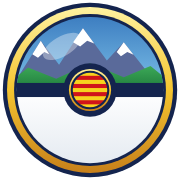
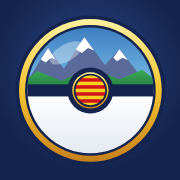
Permitir instalar el juego como aplicación con su pantalla de carga
- manifest.webmanifest con nombre, colores e iconos de 192 y 512 px (también
  versión maskable para Android).
- Pantallas de carga para iPhone (apple-touch-startup-image) en 11 tamaños,
  con el emblema, el nombre y la cinta de Aragón sobre el atardecer.
- apple-touch-icon cuadrado con fondo azul para que iOS no lo recorte.
- Pantalla completa con barra de estado translúcida y márgenes seguros
  para la muesca.
- Service worker que da prioridad a la red y usa la caché sin conexión.

Claude-Session: https://claude.ai/code/session_01GrhbgGUWWaNWde6f3VWZv7

diff --git a/index.html b/index.html
@@ -2,13 +2,30 @@
 <html lang="es">
 <head>
   <meta charset="utf-8">
-  <meta name="viewport" content="width=device-width, initial-scale=1, maximum-scale=1, user-scalable=no">
+  <meta name="viewport" content="width=device-width, initial-scale=1, maximum-scale=1, user-scalable=no, viewport-fit=cover">
   <title>Oscamon Huesca</title>
   <meta name="description" content="Aventura de criaturas al estilo Pokémon ambientada en Huesca y el Alto Aragón.">
   <meta name="theme-color" content="#14244e">
   <link rel="icon" type="image/svg+xml" href="img/logo.svg">
   <link rel="icon" type="image/png" sizes="32x32" href="img/favicon-32.png">
   <link rel="apple-touch-icon" href="img/apple-touch-icon.png">
+  <link rel="manifest" href="manifest.webmanifest">
+  <!-- Al instalarlo en el iPhone: pantalla completa, nombre y pantallas de carga -->
+  <meta name="apple-mobile-web-app-capable" content="yes">
+  <meta name="mobile-web-app-capable" content="yes">
+  <meta name="apple-mobile-web-app-title" content="Oscamon">
+  <meta name="apple-mobile-web-app-status-bar-style" content="black-translucent">
+  <link rel="apple-touch-startup-image" media="(device-width: 375px) and (device-height: 667px) and (-webkit-device-pixel-ratio: 2) and (orientation: portrait)" href="img/splash/splash-750x1334.png">
+  <link rel="apple-touch-startup-image" media="(device-width: 414px) and (device-height: 896px) and (-webkit-device-pixel-ratio: 2) and (orientation: portrait)" href="img/splash/splash-828x1792.png">
+  <link rel="apple-touch-startup-image" media="(device-width: 375px) and (device-height: 812px) and (-webkit-device-pixel-ratio: 3) and (orientation: portrait)" href="img/splash/splash-1125x2436.png">
+  <link rel="apple-touch-startup-image" media="(device-width: 414px) and (device-height: 896px) and (-webkit-device-pixel-ratio: 3) and (orientation: portrait)" href="img/splash/splash-1242x2688.png">
+  <link rel="apple-touch-startup-image" media="(device-width: 390px) and (device-height: 844px) and (-webkit-device-pixel-ratio: 3) and (orientation: portrait)" href="img/splash/splash-1170x2532.png">
+  <link rel="apple-touch-startup-image" media="(device-width: 428px) and (device-height: 926px) and (-webkit-device-pixel-ratio: 3) and (orientation: portrait)" href="img/splash/splash-1284x2778.png">
+  <link rel="apple-touch-startup-image" media="(device-width: 393px) and (device-height: 852px) and (-webkit-device-pixel-ratio: 3) and (orientation: portrait)" href="img/splash/splash-1179x2556.png">
+  <link rel="apple-touch-startup-image" media="(device-width: 430px) and (device-height: 932px) and (-webkit-device-pixel-ratio: 3) and (orientation: portrait)" href="img/splash/splash-1290x2796.png">
+  <link rel="apple-touch-startup-image" media="(device-width: 402px) and (device-height: 874px) and (-webkit-device-pixel-ratio: 3) and (orientation: portrait)" href="img/splash/splash-1206x2622.png">
+  <link rel="apple-touch-startup-image" media="(device-width: 440px) and (device-height: 956px) and (-webkit-device-pixel-ratio: 3) and (orientation: portrait)" href="img/splash/splash-1320x2868.png">
+  <link rel="apple-touch-startup-image" media="(device-width: 360px) and (device-height: 780px) and (-webkit-device-pixel-ratio: 3) and (orientation: portrait)" href="img/splash/splash-1080x2340.png">
   <link rel="preconnect" href="https://fonts.googleapis.com">
   <link rel="preconnect" href="https://fonts.gstatic.com" crossorigin>
   <link href="https://fonts.googleapis.com/css2?family=Press+Start+2P&display=swap" rel="stylesheet">

diff --git a/sw.js b/sw.js
@@ -1,0 +1,20 @@
+// Service worker de Oscamon: primero la red (para recibir siempre la última versión)
+// y, si no hay conexión, lo último que se guardó. Así el juego instalado abre sin cobertura.
+const CACHE = 'oscamon-v1';
+
+self.addEventListener('install', e => self.skipWaiting());
+self.addEventListener('activate', e => e.waitUntil(self.clients.claim()));
+
+self.addEventListener('fetch', e => {
+  const req = e.request;
+  if (req.method !== 'GET') return;
+  e.respondWith(
+    fetch(req).then(res => {
+      if (res.ok && (new URL(req.url).origin === location.origin || req.url.includes('fonts.g'))) {
+        const copy = res.clone();
+        caches.open(CACHE).then(c => c.put(req, copy));
+      }
+      return res;
+    }).catch(() => caches.match(req, { ignoreSearch: true }))
+  );
+});

diff --git a/css/style.css b/css/style.css
@@ -28,7 +28,8 @@ main {
   align-items: center;
   justify-content: center;
   min-height: 100%;
-  padding: 4px 0;
+  /* Respeta la muesca y la barra inferior cuando se abre como app instalada */
+  padding: calc(4px + env(safe-area-inset-top, 0px)) env(safe-area-inset-right, 0px) calc(4px + env(safe-area-inset-bottom, 0px)) env(safe-area-inset-left, 0px);
   gap: 8px;
 }
 

diff --git a/js/main.js b/js/main.js
@@ -1007,3 +1007,8 @@ function resize() {
 }
 
 boot();
+
+// Permite instalar el juego como aplicación y abrirlo sin conexión
+if ('serviceWorker' in navigator && location.protocol === 'https:') {
+  try { navigator.serviceWorker.register('sw.js').catch(() => {}); } catch (e) { /* no disponible */ }
+}

diff --git a/README.md b/README.md
@@ -13,7 +13,12 @@ Abre `index.html` en el navegador. También puedes servir la carpeta con cualqui
 npx http-server .   # o: python3 -m http.server
 ```
 
-Funciona en el móvil con mandos táctiles.
+Funciona en el móvil con mandos táctiles y **se puede instalar como una aplicación**:
+
+- **iPhone (Safari):** botón Compartir → *Añadir a pantalla de inicio*.
+- **Android (Chrome):** menú ⋮ → *Instalar aplicación* (o *Añadir a pantalla de inicio*).
+
+Al abrirlo desde el icono se ve a pantalla completa, con una pantalla de carga con el emblema del juego, y funciona sin conexión.
 
 **Jugar online:** https://jaimeferrer.github.io/PruebaJuego/ (se publica solo con GitHub Pages cada vez que se sube a `main`).
 
@@ -110,6 +115,8 @@ La partida se guarda en el navegador (`localStorage`) desde el menú. También s
 ```
 index.html      página y mandos táctiles
 img/logo.svg    emblema del juego (favicon y logotipo de la portada); img/*.png son sus versiones en PNG
+img/splash/     pantallas de carga del iPhone al abrir el juego instalado
+manifest.webmanifest, sw.js   instalación como aplicación y modo sin conexión
 css/style.css   interfaz (diálogos, menús, mandos)
 js/data.js      tipos, movimientos, especies y objetos
 js/map.js       ciudad de Huesca, edificios, carteles y NPC (se incrusta en el mapa grande)
